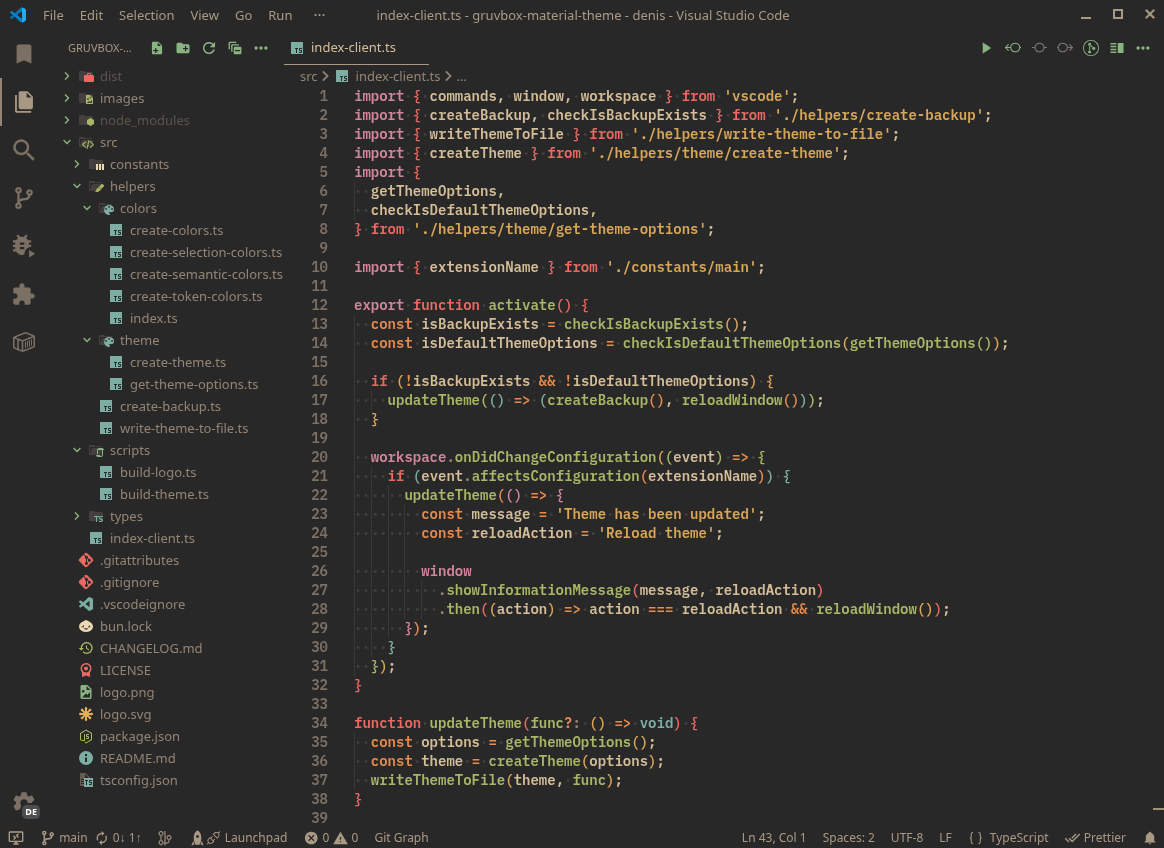
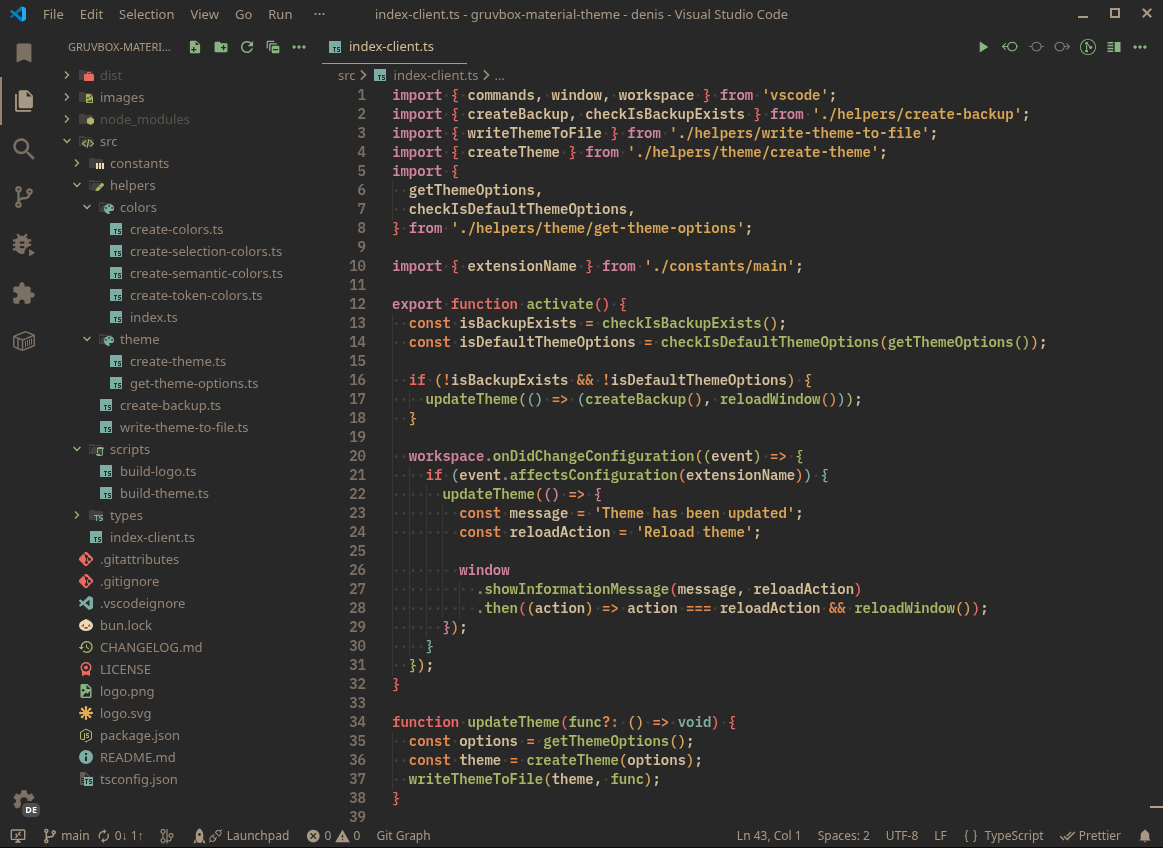
v1.0.4

diff --git a/src/helpers/colors/create-token-colors.ts b/src/helpers/colors/create-token-colors.ts
@@ -803,6 +803,17 @@ export function createTokenColors({
       },
     },
     {
+      name: 'JavaScript aqua',
+      scope: [
+        'keyword.control.export.js',
+        'keyword.control.from.js',
+        'keyword.control.import.js',
+      ].join(', '),
+      settings: {
+        foreground: paletteColors.aqua,
+      },
+    },
+    {
       name: 'JavaScript white',
       scope: 'string.unquoted.js',
       settings: {
@@ -853,6 +864,24 @@ export function createTokenColors({
       ].join(', '),
       settings: {
         foreground: paletteColors.green,
+      },
+    },
+    {
+      name: 'JSX purple',
+      scope: [
+        'keyword.control.export.js.jsx',
+        'keyword.control.from.js.jsx',
+        'keyword.control.import.js.jsx',
+      ].join(', '),
+      settings: {
+        foreground: paletteColors.purple,
+      },
+    },
+    {
+      name: 'JSX orange',
+      scope: 'support.class.component.js.jsx',
+      settings: {
+        foreground: paletteColors.orange,
       },
     },
     {
@@ -919,6 +948,7 @@ export function createTokenColors({
       name: 'TypeScript purple',
       scope: [
         'keyword.control.export.ts',
+        'keyword.control.from.ts',
         'keyword.control.import.ts',
         'storage.type.namespace.ts',
       ].join(', '),
@@ -982,6 +1012,7 @@ export function createTokenColors({
       name: 'TSX purple',
       scope: [
         'keyword.control.export.tsx',
+        'keyword.control.from.tsx',
         'keyword.control.import.tsx',
         'storage.type.namespace.tsx',
       ].join(', '),

diff --git a/README.md b/README.md
@@ -14,9 +14,9 @@
 </h3>
 
 <p align="center">
-  <a href="https://marketplace.visualstudio.com/items?itemName=navernoedenis.gruvbox-material-icons"><img src="https://img.shields.io/badge/v1.0.3-%23000?style=for-the-badge&label=version&color=%23a9b665" alt="version"></a>&nbsp;
+  <a href="https://marketplace.visualstudio.com/items?itemName=navernoedenis.gruvbox-material-icons"><img src="https://img.shields.io/badge/v1.0.4-%23000?style=for-the-badge&label=version&color=%23a9b665" alt="version"></a>&nbsp;
   <a href="https://marketplace.visualstudio.com/items?itemName=navernoedenis.gruvbox-material-icons"><img src="https://img.shields.io/badge/0%2F0(0)-%23000?style=for-the-badge&label=rating&color=%23e3ae5a" alt="rating"></a>&nbsp;
-  <a href="https://marketplace.visualstudio.com/items?itemName=navernoedenis.gruvbox-material-icons"><img src="https://img.shields.io/badge/20+-%23000?style=for-the-badge&label=installs&color=%23ebdbb2" alt="installs"></a>&nbsp;
+  <a href="https://marketplace.visualstudio.com/items?itemName=navernoedenis.gruvbox-material-icons"><img src="https://img.shields.io/badge/35+-%23000?style=for-the-badge&label=installs&color=%23ebdbb2" alt="installs"></a>&nbsp;
 </p>
 
 <h2 align="center">Palette: Material</h2>

diff --git a/CHANGELOG.md b/CHANGELOG.md
@@ -1,5 +1,10 @@
 # Changelog
 
+## 1.0.4
+
+- Fixed inconsistent colors for `import`, `export` and `from` in .js, .ts, .jsx and .tsx files
+- Fixed component colors in .tsx and .jsx files
+
 ## 1.0.3
 
 - Removed duplicates in the token creation function
